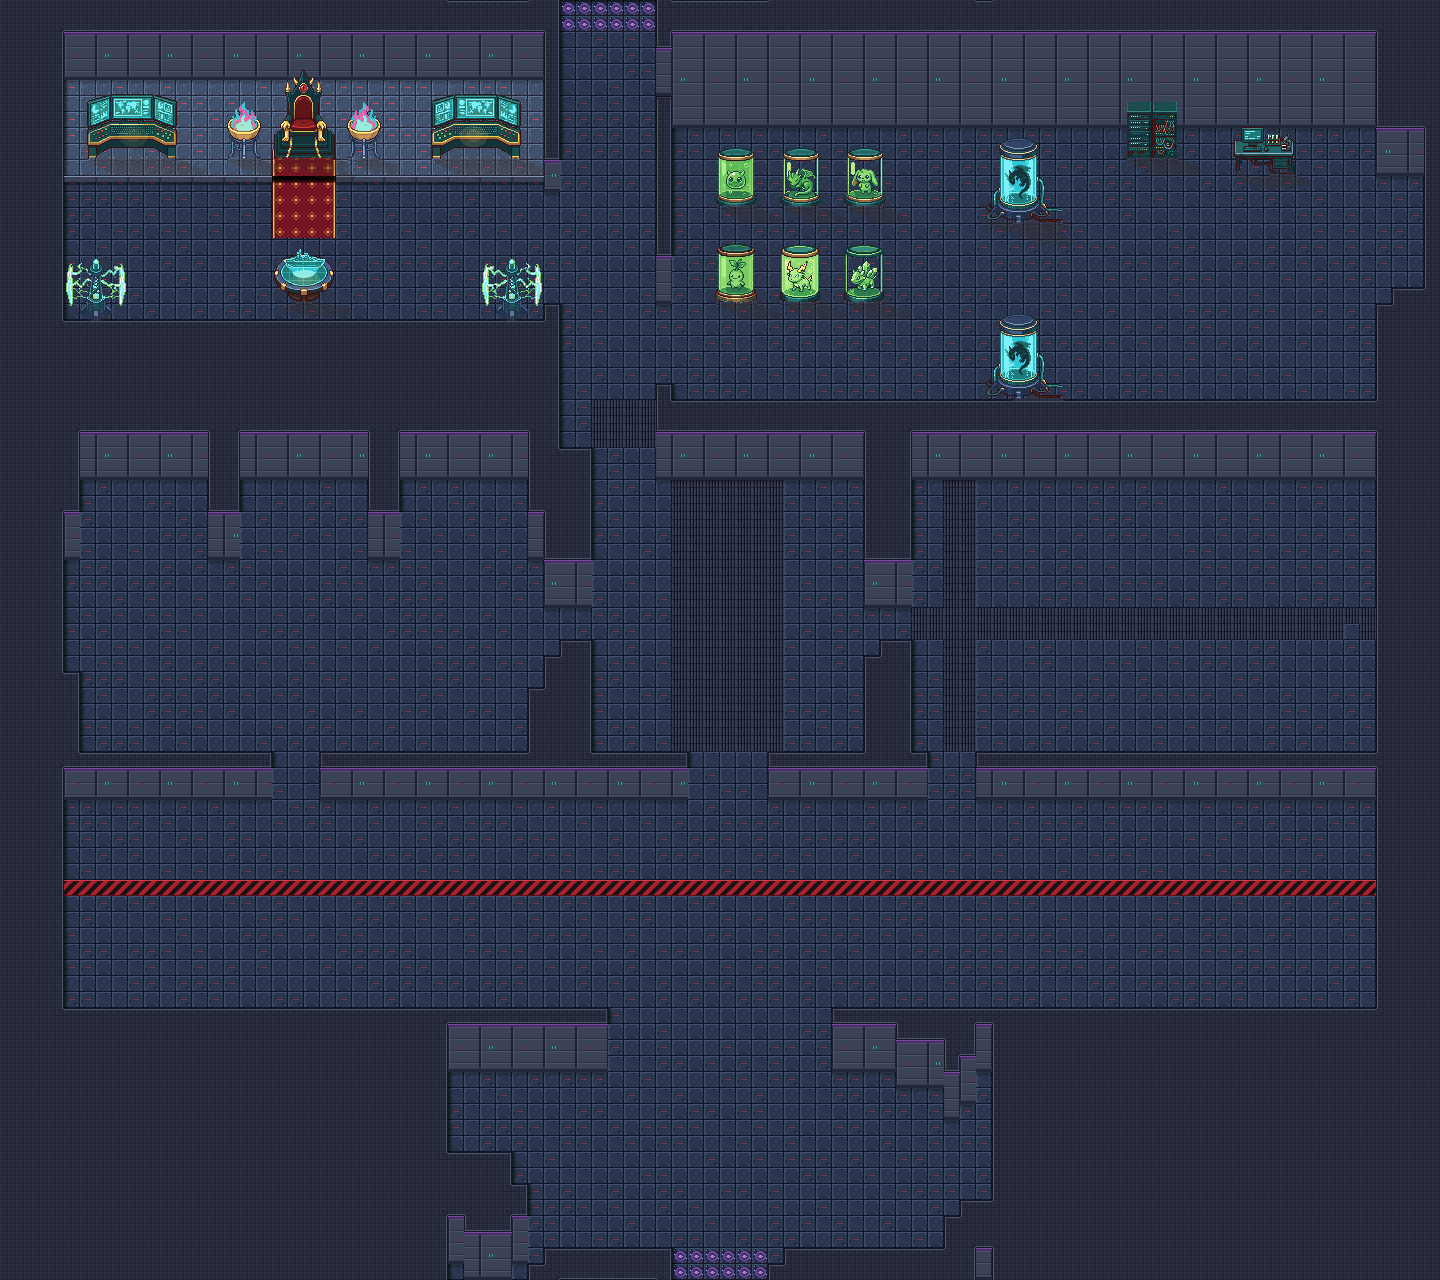
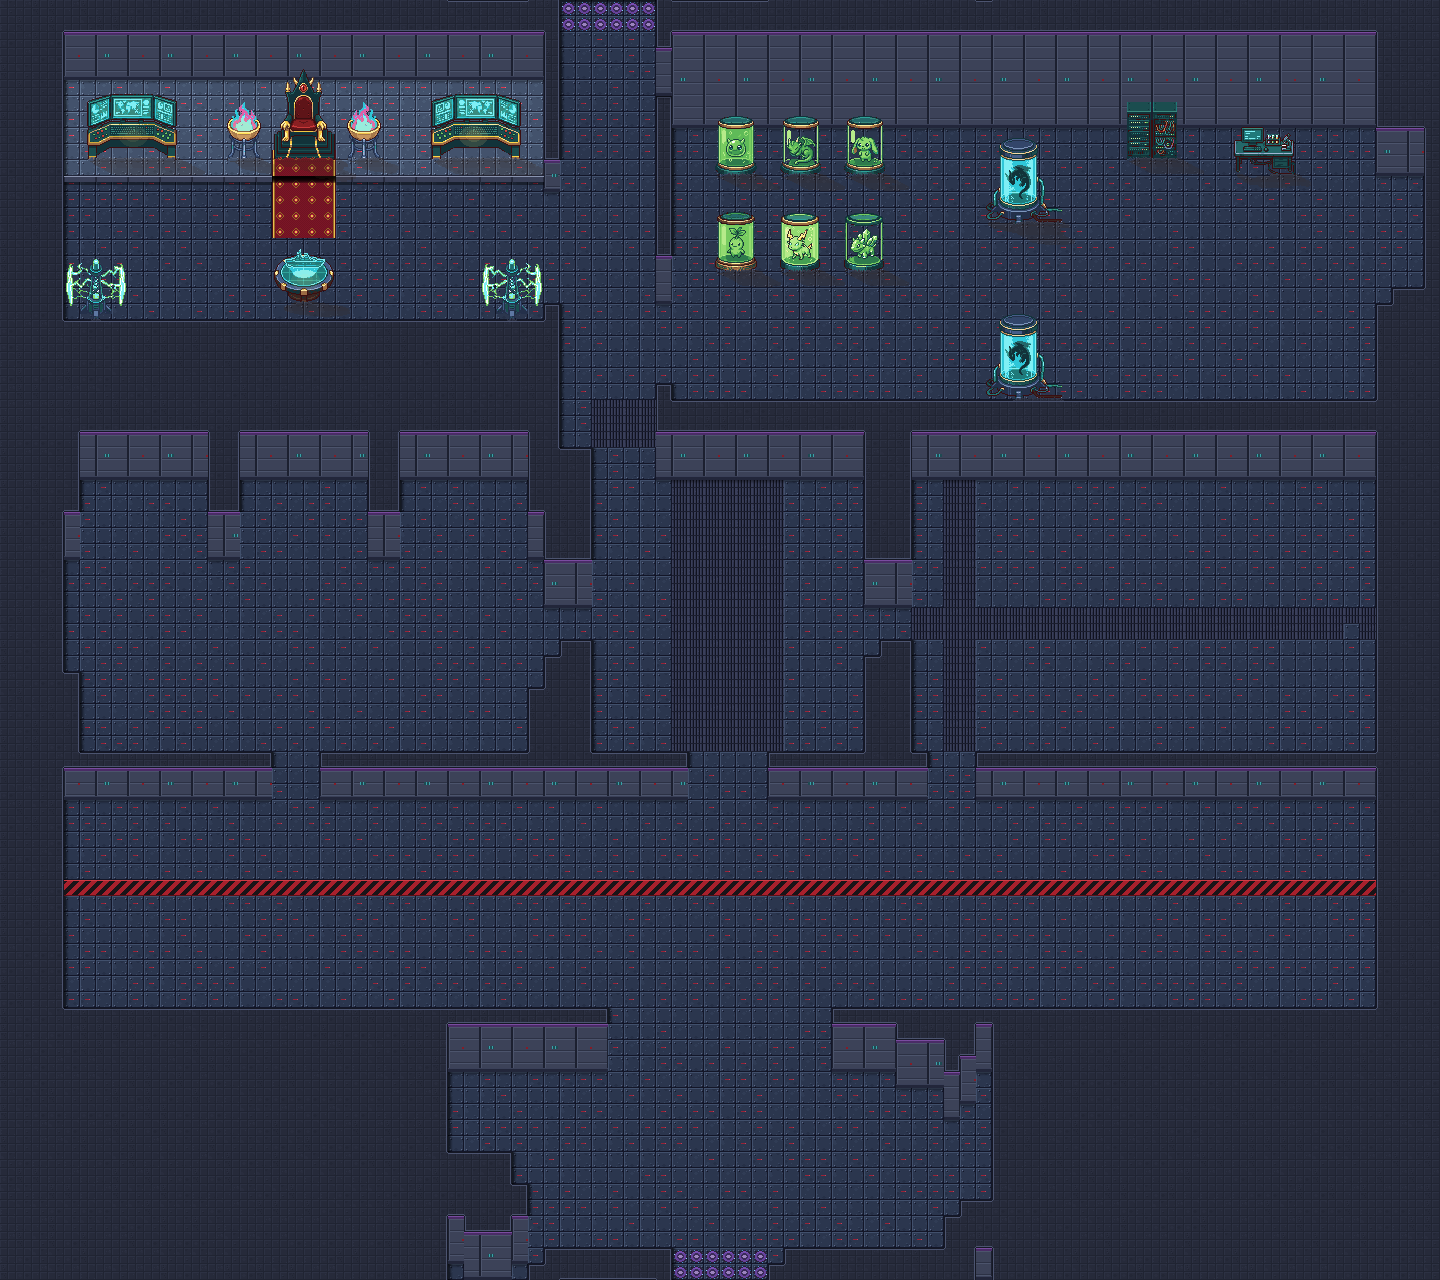
Karte 26: Brutkapseln zwei Kacheln hoeher
Claude-Session: https://claude.ai/code/session_01SaoYHKhnro4LFcPJqjaPsq

Changed region(s): [[0.5, 0.0938, 0.625, 0.25]]

diff --git a/tools/karte26_objekte.py b/tools/karte26_objekte.py
@@ -46,7 +46,7 @@ KAPSEL, TANK, SERVER, FROST, LABTISCH, CHEMIE, REAKTOR, PULT, FAESSER, KABEL, ST
 LABOR = (                                                        # Brutlabor oben rechts, aufgeraeumt (Nutzer: weniger)
     [(TANK, 13, {'px': 64 * T}), (TANK, 24, {'px': 64 * T})]      # zwei grosse Stasis-Tanks wie in der Vorlage
     + [('kapsel/%02d' % n, r, {'px': x * T})    # Brutkapseln mit kleinen Digimon (Nutzer), 3 x 2
-       for (n, x, r) in ((0, 46, 12), (1, 50, 12), (2, 54, 12), (5, 46, 18), (12, 50, 18), (13, 54, 18))]
+       for (n, x, r) in ((0, 46, 10), (1, 50, 10), (2, 54, 10), (5, 46, 16), (12, 50, 16), (13, 54, 16))]
     + [(SERVER, 9, {'px': 72 * T}), (LABTISCH, 10, {'px': 79 * T})]
 )
 
